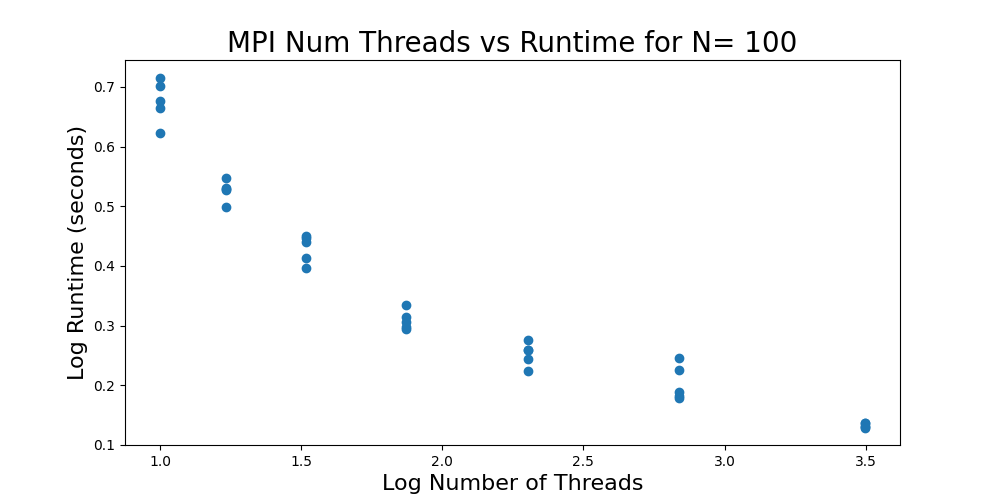
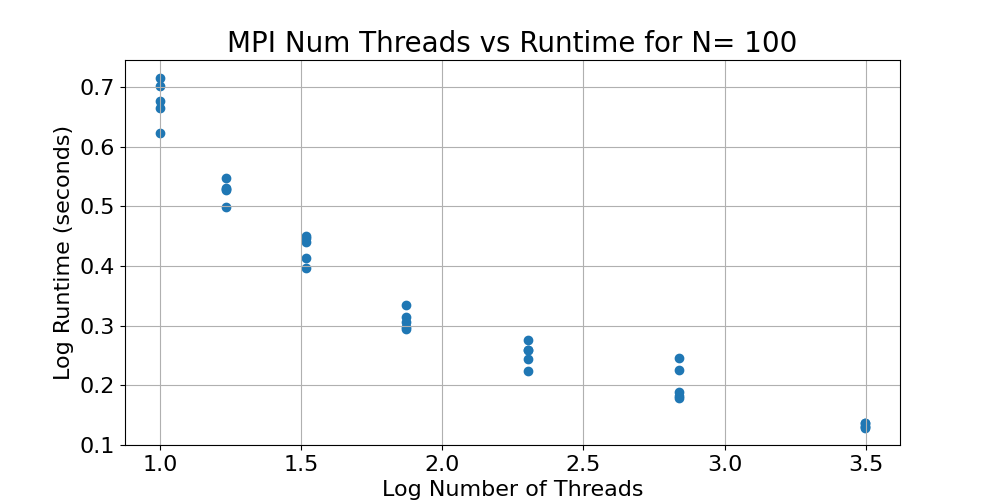
Enlarged graphs

diff --git a/graphics.py b/graphics.py
@@ -32,6 +32,10 @@ def create_df(csv_link):
     return df_10, df_100, df_1000, df_2000
     
 
+
+
+
+
 def create_plot(df, N, parallel_name):
     # Create a plot for df_20
     log_x = np.log10(df[' Num Threads'])
@@ -40,12 +44,14 @@ def create_plot(df, N, parallel_name):
     plt.scatter(2 ** log_x, 2 ** log_y, marker='o') 
     plt.xlabel('Log Number of Threads', fontsize=16)
     plt.ylabel('Log Runtime (seconds)', fontsize=16)
+    plt.xticks(fontsize=16)
+    plt.yticks(fontsize=16)
     plt.title(f"{parallel_name} Num Threads vs Runtime for N= {N}",fontsize=20)
-    plt.savefig(f"results/{parallel_name}/NumThreadsVsRuntimeN={N}.png")
-    plt.legend(loc='upper right')
-    plt.ylim(min(df[' Runtime']), max(df[' Runtime']))
     plt.grid(True)
+    plt.savefig(f"results/{parallel_name}/NumThreadsVsRuntimeN={N}.png")
     plt.show()
+
+
 
 def create_serial_plot(df, parallel_name):
     # Create a plot for df_20
@@ -55,11 +61,11 @@ def create_serial_plot(df, parallel_name):
     plt.scatter(2 ** log_x, 2 ** log_y, marker='o') 
     plt.xlabel('Log Num Verticies', fontsize=16)
     plt.ylabel('Log Runtime (seconds)', fontsize=16)
+    plt.xticks(fontsize=16)
+    plt.yticks(fontsize=16)
     plt.title(f"{parallel_name} Num Verticies vs Runtime", fontsize=20)
-    plt.savefig(f"results/{parallel_name}/NumThreadsVsRuntime.png")
-    plt.legend(loc='upper right',)
-    plt.ylim(min(df[' Runtime']), max(df[' Runtime']))
     plt.grid(True)
+    plt.savefig(f"results/{parallel_name}/NumThreadsVsRuntime.png")
     plt.show()
 
 def main(): 

diff --git a/WriteUp.md b/WriteUp.md
@@ -105,6 +105,7 @@ Second, we implemented OpenMP as described in the methods section. This implemen
 
 ![N = 1000 OpenMP](./results/OpenMP/NumThreadsVsRuntimeN=1000.png)
 
+
 The explanation for the outliers on these plots can be due to jitter on the HPCC. Since each thread is "fighting" for resources, there will be runs where other jobs running will cause the latency to increase. 
 
 Thirdly, we implemented MPI as described in the methods section. This implementation also involved discretizing the domain of nodes where the threads are balancing the computational load. As expected, as the number of threads increase, the overall runtime decreases This is due to each thread having the same load and processing the same amount of information compared to other MPI threads. 
